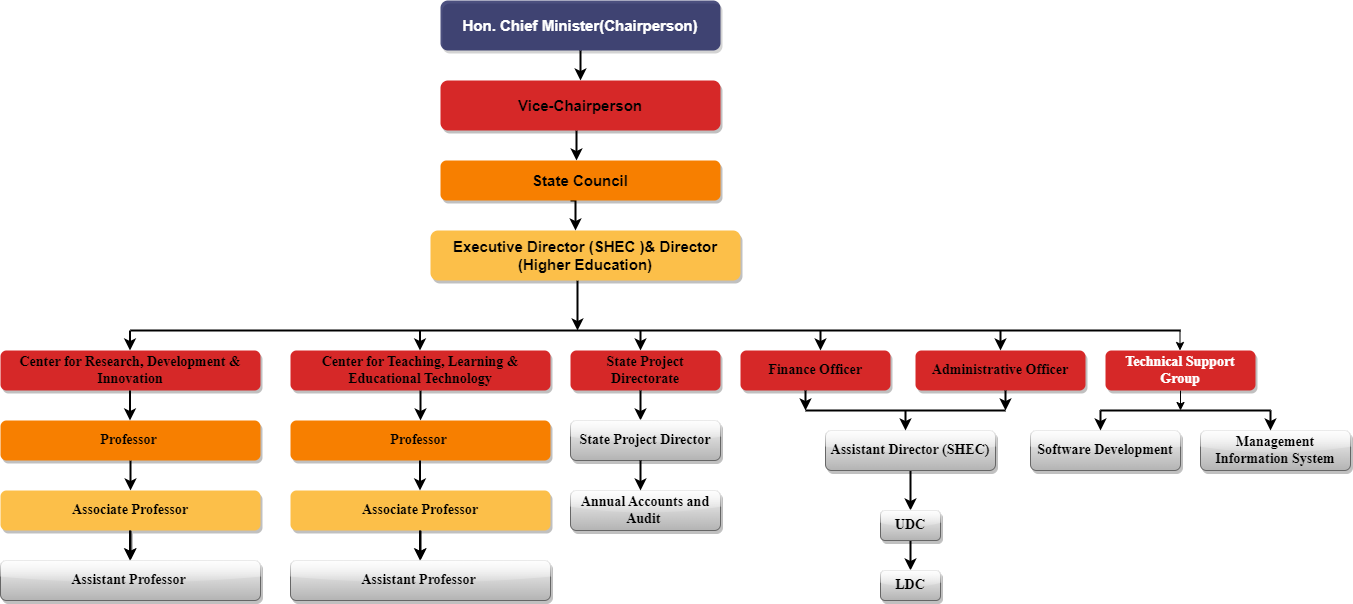
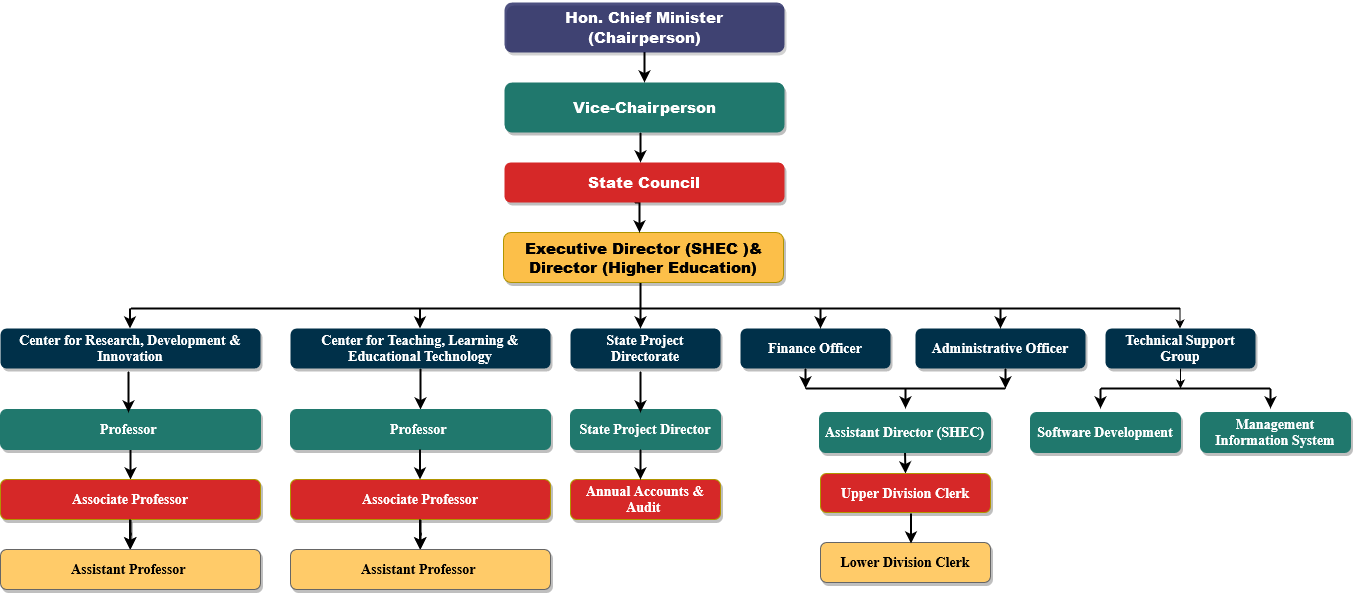
org chart update

diff --git a/assets/css/templatemo-edu-meeting.css b/assets/css/templatemo-edu-meeting.css
@@ -3216,22 +3216,28 @@ responsive
   padding: inherit !important;
 }
 
+.tree-title5-color,
+.tree-title4-color,
 .tree-title3-color,
-.tree-title2-color,
+.tree-title1-color,
 .tree-title-color {
   color: white !important;
 }
 .tree-title-color {
-  background-color: #4c3f73 !important;
+  background-color: #3a0056 !important;
+}
+
+.tree-title1-color {
+  background-color: #102d4c !important;
 }
 .tree-title2-color {
-  background-color: #e00000 !important;
+  background-color: #f9cc2f !important;
 }
 .tree-title3-color {
-  background-color: #f98000 !important;
+  background-color: #0d7d6f !important;
 }
 .tree-title4-color {
-  background-color: #f9cc2f !important;
+  background-color: #e00000 !important;
 }
 .tree-title5-color {
   background-color: #f98000 !important;

diff --git a/organization.php b/organization.php
@@ -27,79 +27,79 @@
               <ul class="tree">
                 <li> <span class="wd_1 ht_1 tree-title-color">Hon. Chief Minister(Chairperson)</span>
                   <ul>
-                    <li><span class="wd_1 ht_1 tree-title2-color">Vice-Chairperson</span>
+                    <li><span class="wd_1 ht_1 tree-title3-color">Vice-Chairperson</span>
                       <ul>
-                        <li><span class="wd_1 ht_1 tree-title3-color">State Council</span>
+                        <li><span class="wd_1 ht_1 tree-title4-color">State Council</span>
                           <ul>
-                            <li><span class="wd_1 tree-title4-color">Executivr Director (SHEC) & Director <br> (Higher EDucation)</span>
+                            <li><span class="wd_1 tree-title2-color">Executive Director (SHEC) & <br> Director (Higher EDucation)</span>
                               <ul>
                                 <li>
                                   <ul>
-                                    <li><span class="ht_2 tree-title2-color">Center for Research, Development & Innovation</span>
+                                    <li><span class="ht_2 tree-title1-color">Center for Research, Development & Innovation</span>
                                       <ul>
                                         <li><span class="ht_1 tree-title3-color">Professor</span>
                                           <ul>
                                             <li><span class="ht_1 tree-title4-color">Associate Professor</span>
                                               <ul>
-                                                <li><span class="ht_1">Assistant Professor</span></li>
+                                                <li><span class="ht_1 tree-title5-color">Assistant Professor</span></li>
                                               </ul>
                                             </li>
                                           </ul>
                                         </li>
                                       </ul>
                                     </li>
-                                    <li><span class="ht_2 tree-title2-color">Center for Teaching, Learning & Educational Technology</span>
+                                    <li><span class="ht_2 tree-title1-color">Center for Teaching, Learning & Educational Technology</span>
                                       <ul>
                                         <li><span class="ht_1 tree-title3-color">Professor</span>
                                           <ul>
                                             <li><span class="ht_1 tree-title4-color">Associate Professor</span>
                                               <ul>
-                                                <li><span class="ht_1">Assistant Professor</span></li>
+                                                <li><span class="ht_1 tree-title5-color">Assistant Professor</span></li>
                                               </ul>
                                             </li>
                                           </ul>
                                         </li>
                                       </ul>
                                     </li>
-                                    <li><span class="ht_2 tree-title2-color">State Project <br> Directorate</span>
+                                    <li><span class="ht_2 tree-title1-color">State Project <br> Directorate</span>
                                       <ul>
-                                        <li><span class="ht_2">State Project <br> Director</span>
+                                        <li><span class="tree-title3-color">State Project <br> Director</span>
                                           <ul>
-                                            <li><span>Annual Accounts and Audit</span></li>
+                                            <li><span class="tree-title4-color">Annual Accounts and Audit</span></li>
                                           </ul>
                                         </li>
                                       </ul>
                                     </li>
-                                    <li><span class="ht_2 tree-title2-color">Finance <br> Officer</span>
+                                    <li><span class="ht_2 tree-title1-color">Finance <br> Officer</span>
                                       <ul>
-                                        <li><span>Assistant Director (SHEC)</span>
+                                        <li><span class="tree-title3-color">Assistant Director (SHEC)</span>
                                           <ul>
-                                            <li><span class="ht_1">UDC</span>
+                                            <li><span class="ht_1 tree-title4-color">Upper Division Clerk</span>
                                               <ul>
-                                                <li><span class="ht_1">LDC</span></li>
+                                                <li><span class="ht_1 tree-title5-color">Lower Division Clerk</span></li>
                                               </ul>
                                             </li>
                                           </ul>
                                         </li>
                                       </ul>
                                     </li>
-                                    <li><span class="ht_2 tree-title2-color">Administrative <br> Officer</span>
+                                    <li><span class="ht_2 tree-title1-color">Administrative <br> Officer</span>
                                       <ul>
-                                        <li><span>Assistant Director (SHEC)</span>
+                                        <li><span class="tree-title3-color">Assistant Director (SHEC)</span>
                                           <ul>
-                                            <li><span class="ht_1">UDC</span>
+                                            <li><span class="ht_1 tree-title4-color">Upper Division Clerk</span>
                                               <ul>
-                                                <li><span class="ht_1">LDC</span></li>
+                                                <li><span class="ht_1 tree-title5-color">Lower Division Clerk</span></li>
                                               </ul>
                                             </li>
                                           </ul>
                                         </li>
                                       </ul>
                                     </li>
-                                    <li><span class="wd_2 ht_2 tree-title2-color">Teaching Support <br> Group</span>
+                                    <li><span class="wd_2 ht_2 tree-title1-color">Teaching Support <br> Group</span>
                                       <ul>
-                                        <li><span>Software Development</span></li>
-                                        <li><span>Management Information System</span></li>
+                                        <li><span class="tree-title3-color">Software Development</span></li>
+                                        <li><span class="tree-title3-color">Management Information System</span></li>
                                       </ul>
                                     </li>
                                   </ul>
